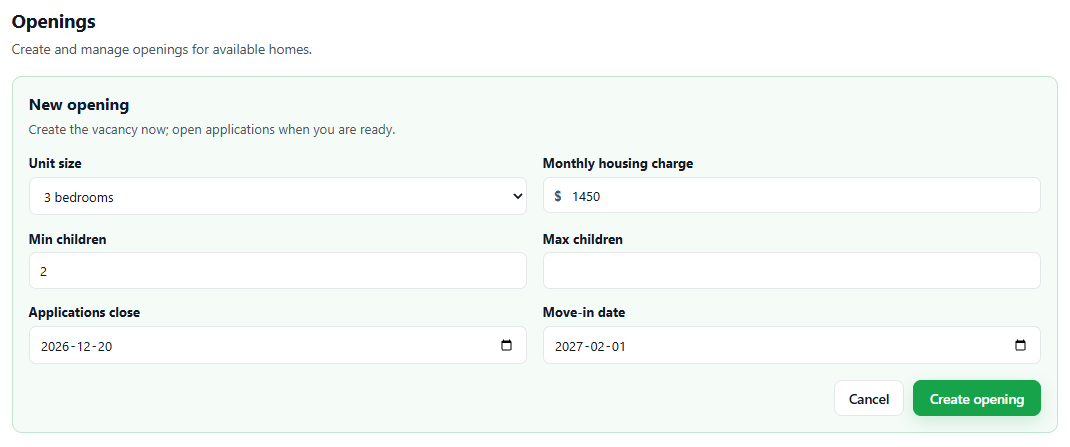
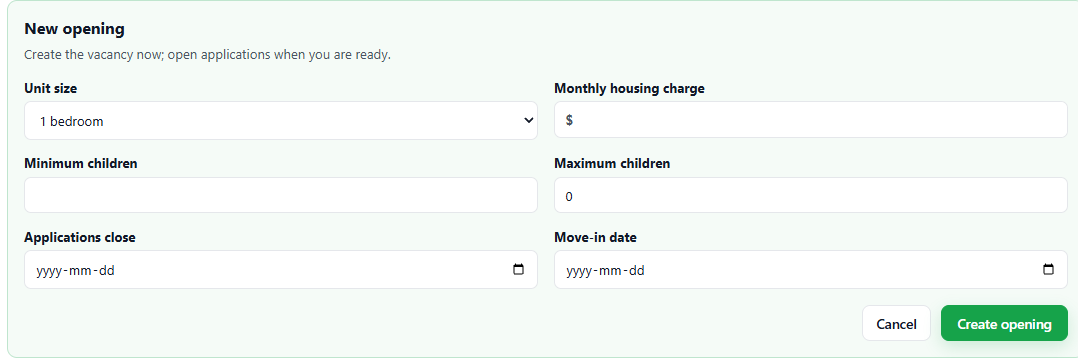
fix(screening): clarify one-bedroom child limits in the opening form

diff --git a/frontend/src/components/admin/OpeningEditor.tsx b/frontend/src/components/admin/OpeningEditor.tsx
@@ -19,7 +19,7 @@ type OpeningDraft = {
 };
 
 function childDefaults(bedrooms: number) {
-  return { minChildren: String(bedrooms - 1), maxChildren: bedrooms === 1 ? "0" : "" };
+  return bedrooms === 1 ? { minChildren: "", maxChildren: "0" } : { minChildren: String(bedrooms - 1), maxChildren: "" };
 }
 
 const EMPTY_DRAFT: OpeningDraft = {
@@ -156,7 +156,7 @@ export function OpeningEditor(props: {
     const values = payload(draft.housingChargeDollars);
     if ([values.minChildren, values.maxChildren].some(n => n !== null && (!Number.isSafeInteger(n) || n < 0))
       || (values.minChildren !== null && values.maxChildren !== null && values.maxChildren < values.minChildren)) {
-      props.onError("Enter whole numbers. Max children must be at least Min children.");
+      props.onError("Enter whole numbers. Maximum children must be at least Minimum children.");
       return;
     }
     const isCurrent = requests.capture();
@@ -250,11 +250,11 @@ function OpeningForm(props: {
             <NumberInput disabled={props.fieldsDisabled} min="0" step="0.01" required value={props.draft.housingChargeDollars} onChange={(value) => set({ housingChargeDollars: value })} />
           </div>
         </label>
-        <label><span>Min children</span>
+        <label><span>Minimum children</span>
           <NumberInput textValue={props.draft.minChildren} pattern="[0-9]+" disabled={props.fieldsDisabled || props.householdLocked}
             onChange={event => set({ minChildren: event.target.value })} />
         </label>
-        <label><span>Max children</span>
+        <label><span>Maximum children</span>
           <NumberInput textValue={props.draft.maxChildren} pattern="[0-9]+" disabled={props.fieldsDisabled || props.householdLocked}
             onChange={event => set({ maxChildren: event.target.value })} />
         </label>

diff --git a/frontend/src/components/admin/OpeningEditor.test.tsx b/frontend/src/components/admin/OpeningEditor.test.tsx
@@ -107,12 +107,12 @@ it("does not report a save into an editor that has been closed", async () => {
 it("seeds child limits by size and asks before replacing a custom limit", () => {
   setup(null);
   const size = screen.getByRole("combobox", { name: "Unit size" });
-  const min = screen.getByRole("textbox", { name: "Min children" });
-  const max = screen.getByRole("textbox", { name: "Max children" });
+  const min = screen.getByRole("textbox", { name: "Minimum children" });
+  const max = screen.getByRole("textbox", { name: "Maximum children" });
   expect(min).toHaveValue("1");
   expect(max).toHaveValue("");
   fireEvent.change(size, { target: { value: "1" } });
-  expect(min).toHaveValue("0");
+  expect(min).toHaveValue("");
   expect(max).toHaveValue("0");
   fireEvent.change(max, { target: { value: "3" } });
   fireEvent.change(size, { target: { value: "3" } });

diff --git a/backend/tests/test_household_openings.py b/backend/tests/test_household_openings.py
@@ -18,7 +18,8 @@ from tests.test_vacancy_notifications import _app_and_db, _opening_payload
 
 @pytest.mark.anyio
 @pytest.mark.parametrize(("beds", "limits", "bounds", "sentence", "counts", "eligible"), [
-    (1, {}, (0, 0), "One or two adults and no children", [0, 1], [True, False]),
+    (1, {}, (None, 0), "One or two adults and no children", [0, 1], [True, False]),
+    (1, {"minChildren": 0}, (0, 0), "One or two adults and no children", [0, 1], [True, False]),
     (2, {}, (1, None), "One or two adults plus at least one child under 18", [0, 1, 5], [False, True, True]),
     (3, {}, (2, None), "One or two adults plus at least two children under 18", [1, 2, 5], [False, True, True]),
     (2, {"minChildren": None, "maxChildren": 2}, (None, 2), "One or two adults plus up to 2 children under 18", [0, 2, 3], [True, True, False]),
@@ -116,3 +117,17 @@ def test_eighteenth_birthday_and_personal_child_rules_leave_public_facts_intact(
     assert rules_config_for(db, user.id, o.id).min_children == 3
     assert record.rules["min_children"] == 1
     assert opening_email_details(o)["household_summary"] == "One or two adults plus at least one child under 18"
+
+
+@pytest.mark.anyio
+async def test_one_bedroom_replay_preserves_a_zero_minimum_receipt():
+    app, _, _ = _app_and_db()
+    payload = {**_opening_payload(), "unitSizeBedrooms": 1}
+    async with AsyncClient(transport=ASGITransport(app=app), base_url="http://test") as client:
+        saved = await client.post("/openings", json={**payload, "minChildren": 0})
+        assert saved.status_code == 200
+        replay = await client.post("/openings", json=payload)
+        assert replay.status_code == 200
+        assert replay.json()["openings"] == saved.json()["openings"]
+        changed = await client.post("/openings", json={**payload, "minChildren": None})
+        assert changed.status_code == 409

diff --git a/backend/app/services/openings/catalog.py b/backend/app/services/openings/catalog.py
@@ -103,7 +103,14 @@ def created_request(db: Session, values: OpeningCreationRequest) -> Opening | No
     opening = db.scalar(select(Opening).where(
         Opening.creation_request_id == str(values.creation_request_id),
     ))
-    if opening is not None and opening.creation_request != creation_facts(values):
+    if opening is None:
+        return None
+    expected = creation_facts(values)
+    # An omitted one-bedroom minimum previously resolved to zero. Replay that receipt as saved.
+    if (values.unit_size_bedrooms == 1 and values.max_children == 0 and "min_children" not in values.model_fields_set
+            and (opening.creation_request or {}).get("min_children") == 0):
+        expected["min_children"] = 0
+    if opening.creation_request != expected:
         raise Problem("opening_creation_changed",
             detail="This opening creation was already saved with different facts. Reload the opening list before creating another opening.")
     return opening

diff --git a/backend/app/schemas/openings.py b/backend/app/schemas/openings.py
@@ -22,7 +22,7 @@ class OpeningCreate(RequestModel):
     @model_validator(mode="after")
     def dates_are_chronological(self) -> "OpeningCreate":
         if self.min_children is not None and self.max_children is not None and self.min_children > self.max_children:
-            raise ValueError("Max children must be at least Min children.")
+            raise ValueError("Maximum children must be at least Minimum children.")
         if self.application_close_date > self.move_in_date:
             raise ValueError("Application close date must be on or before the move-in date.")
         return self

diff --git a/backend/app/domain/household.py b/backend/app/domain/household.py
@@ -1,8 +1,8 @@
 """Public household requirements for an opening and its initial committee rules."""
 
 
-def default_child_limits(bedrooms: int) -> tuple[int, int | None]:
-    return bedrooms - 1, 0 if bedrooms == 1 else None
+def default_child_limits(bedrooms: int) -> tuple[int | None, int | None]:
+    return (None, 0) if bedrooms == 1 else (bedrooms - 1, None)
 
 
 def household_description(minimum: int | None, maximum: int | None) -> str:

diff --git a/SPEC.md b/SPEC.md
@@ -48,14 +48,14 @@ The applicant/co-applicant section asks for applicant name, date of birth, phone
 co-applicant name, date of birth, relationship, phone, and email; and the children who will live in
 the unit. Ages are calculated from those birth dates as of the application's last submitted edit.
 
-The admin opening form prefills **Min children** and **Max children** by bedroom count. Either
+The admin opening form prefills **Minimum children** and **Maximum children** by bedroom count. Either
 bound may be blank. Zero is an explicit bound. The admin reviews the saved household sentence
 beside the housing charge and dates before publication. Applicant opening cards and both
 announcement emails use that sentence. Publication fixes the household limits for that opening.
 
 Household-size defaults for openings:
 
-- 1 bedroom: 1 or 2 adults and no children
+- 1 bedroom: 1 or 2 adults and no children (minimum blank, maximum 0)
 - 2 bedroom: 1 or 2 adults plus 1 or more children under 18
 - 3 bedroom: 1 or 2 adults plus 2 or more children under 18
 

diff --git a/docs/archive/codebase-review-63b48d7.md b/docs/archive/codebase-review-63b48d7.md
@@ -4,7 +4,8 @@ November 25, 2026. Four passes produced five findings on this baseline. All five
 
 ## Resolution
 
-The opening editor prefills editable child limits. Both blank bounds and explicit zeros survive
+After reviewing the form, Jeff chose **Minimum children** and **Maximum children**, with a blank
+minimum and a maximum of zero for new one-bedroom openings. Both blank bounds and explicit zeros survive
 save and publication. Published bounds supply applicant cards and both email variants. New
 committee defaults use the confirmed bounds. Existing published committee and personal rules
 were preserved in the additive migration. [Opening form](../images/opening-form-household.png)
